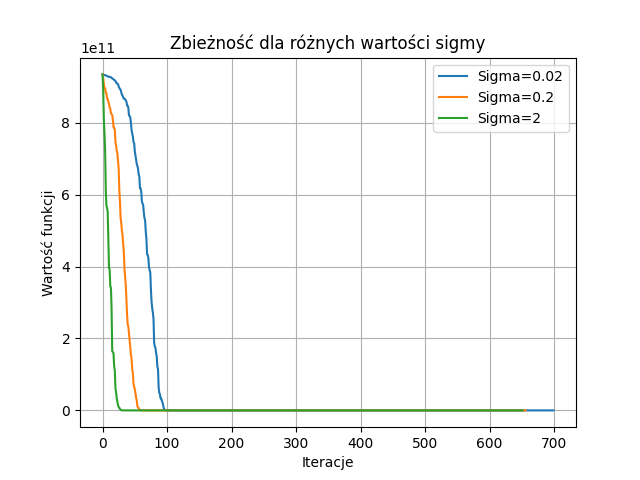
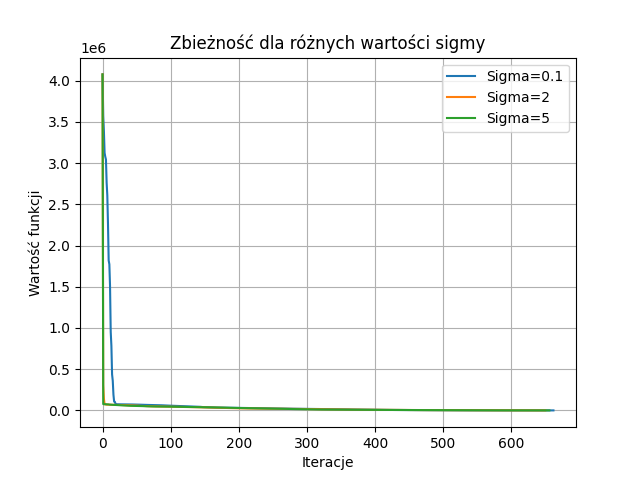
.

diff --git a/lab2/main.py b/lab2/main.py
@@ -17,13 +17,17 @@ from cec2017.functions import f3, f7
 from typing import Tuple, Callable
 from time import time
 import matplotlib.pyplot as plt
+from scipy.stats import wilcoxon
 
-def solver(f: Callable[[np.ndarray], float], x0: np.ndarray, max_iteration: int = 3000, a: int = 5, sigma: float = 0.2) -> Tuple[float, float]:
+
+def solver(f: Callable[[np.ndarray], float], x0: np.ndarray, max_iteration: int = 3000, a: int = 5, sigma: float = 0.5, max_no_improve_counter: int = 100) -> Tuple[float, float]:
+    start_time = time()
     iteration = 1
     success_counter = 0
     function_value = f(x0)
     x = x0
     history = [function_value]
+    no_improve_counter = 0
     
 
     while iteration <= max_iteration:
@@ -35,7 +39,13 @@ def solver(f: Callable[[np.ndarray], float], x0: np.ndarray, max_iteration: int 
             function_value = new_function_value
             x = mutation
             history.append(new_function_value)
+            no_improve_counter = 0
             
+        else:
+            no_improve_counter += 1
+        
+        if no_improve_counter >= max_no_improve_counter:
+            break
         
         if iteration % a == 0:
             if success_counter / a > 0.2:
@@ -44,31 +54,15 @@ def solver(f: Callable[[np.ndarray], float], x0: np.ndarray, max_iteration: int 
                 sigma *= 0.82
             success_counter = 0
         iteration += 1
+    end_time = ()
+    evaluation_time = end_time - start_time
     
-    return x, function_value, history
+    return x, function_value, history, evaluation_time
 
-
-def plot(f: Callable[[np.ndarray], float], x0: np.ndarray):
-    start_time = time()
-    x_min, min_value, history = solver(f, x0)
-    end_time = time()
-    evaluation_time = round(end_time - start_time, 3)
-    
-    with open('details.txt', 'a') as file:
-        file.write(f"Minimum: {x_min}")
-        file.write(f"Minimum value: {min_value}")
-        file.write(f"Evaluation time: {evaluation_time}")
-        file.write("\n" + "################" + "\n")
-    
-    plt.plot(history)
-    plt.xlabel("Iteracje")
-    plt.ylabel("Wartość funkcji")
-    plt.grid(True)
-    plt.show()
 
 def plot_sigmas(f: Callable[[np.ndarray], float], x0: np.ndarray, sigmas: np.ndarray, file_name: str):
     for sigma in sigmas:
-        _, _, history = solver(f, x0, sigma=sigma)
+        _, _, history, _ = solver(f, x0, sigma=sigma)
         plt.plot(history, label=f'Sigma={sigma}')
     
     plt.xlabel("Iteracje")
@@ -79,9 +73,9 @@ def plot_sigmas(f: Callable[[np.ndarray], float], x0: np.ndarray, sigmas: np.nda
     plt.savefig(file_name)
     plt.show()
 
-def plot_a(f: Callable[[np.ndarray], float], x0: np.ndarray, a_list: np.ndarray = [0.5, 5, 50], file_name: str = ""):
+def plot_a(f: Callable[[np.ndarray], float], x0: np.ndarray, a_list: np.ndarray = [5, 20, 50], file_name: str = ""):
     for a in a_list:
-        _, _, history = solver(f, x0, a=a)
+        _, _, history, _ = solver(f, x0, a=a)
         plt.plot(history, label=f'Paramter a={a}')
     plt.xlabel("Iteracje")
     plt.ylabel("Wartość funkcji")
@@ -91,9 +85,6 @@ def plot_a(f: Callable[[np.ndarray], float], x0: np.ndarray, a_list: np.ndarray 
     plt.savefig(file_name)
     plt.show()
 
-
-def f(x):
-    return np.sum(x ** 2)
 
 def f3_adapter(x):
     x_reshaped = np.array(x).reshape(1, -1)
@@ -106,17 +97,25 @@ def f7_adapter(x):
     return result[0]
 
 
-x0 = np.random.uniform(-100.0, 100.0, size=(1, 10))
-sigmas = [0.02, 0.2, 2]
+def main():
 
+    x0 = np.random.uniform(-100.0, 100.0, size=(1, 10))
+    x0_30 = np.random.uniform(-100.0, 100.0, size=(1, 30))
+    sigmas = [0.1, 2, 5]
 
-plot_sigmas(f, x0, sigmas = [0.02, 0.2, 2], file_name="sigma_kwadratowa.png")
-plot_sigmas(f3_adapter, x0, sigmas = [0.02, 0.2, 2], file_name="sigma_f3.png")
-plot_sigmas(f7_adapter, x0, sigmas = [0.02, 0.2, 2], file_name="sigma_f7.png")
+    
+'''
+    plot_sigmas(f, x0, sigmas=sigmas, file_name="sigma_kwadratowa.png")
+    plot_sigmas(f3_adapter, x0, sigmas=sigmas, file_name="sigma_f3.png")
+    plot_sigmas(f7_adapter, x0, sigmas=sigmas, file_name="sigma_f7.png")
 
-plot_a(f, x0, file_name="a_kwadratowa.png")
-plot_a(f3_adapter, x0, file_name="a_f3.png")
-plot_a(f7_adapter, x0, file_name="a_f7.png")
+    plot_a(f, x0, file_name="a_kwadratowa.png")
+    plot_a(f3_adapter, x0, file_name="a_f3.png")
+    plot_a(f7_adapter, x0, file_name="a_f7.png")
+'''
+
+if __name__=="__main__":
+    main()
 
     
 

diff --git a/lab1/cw1.py b/lab1/cw1.py
@@ -24,7 +24,7 @@ import json
 def f(x):
     return np.sum(x ** 2)
 
-def solver(f, x0, alfa=1e-3, epsilon=1e-6, iterations=3000):
+def solver(f, x0, alfa=1e-3, epsilon=1e-6, iterations=500):
     gradient = grad(f)
     x = x0
     f_values = []
@@ -63,6 +63,7 @@ def plot(f, x0, alfa_to_test):
         evaluetion_time = end_time - start_time
         evaluation_times[alfa] = round(evaluetion_time, 3)
         plt.plot(result['f_values'], label=f'alfa={alfa}')
+        print(result['x'])
     #log-lin plot
     #plt.yscale('log')
     with open('evaluation_times.json', 'w') as file:
@@ -86,11 +87,11 @@ def f3_adapter(x):
 
 
 alfa_to_test = [1e-10, 1e-9, 1e-8] #[1e-3, 1e-2, 1e-1]
-x0_cec = np.random.uniform(-100.0, 100.0, size=(1, 10))
+x0_cec = np.random.uniform(-1.0, 1.0, size=(1, 10))
 
 
 #For qudratic function
-plot(f, x0_cec, alfa_to_test)
+#plot(f, x0_cec, alfa_to_test)
 
 #For F3 function
 plot(f3_adapter, x0_cec, alfa_to_test)
